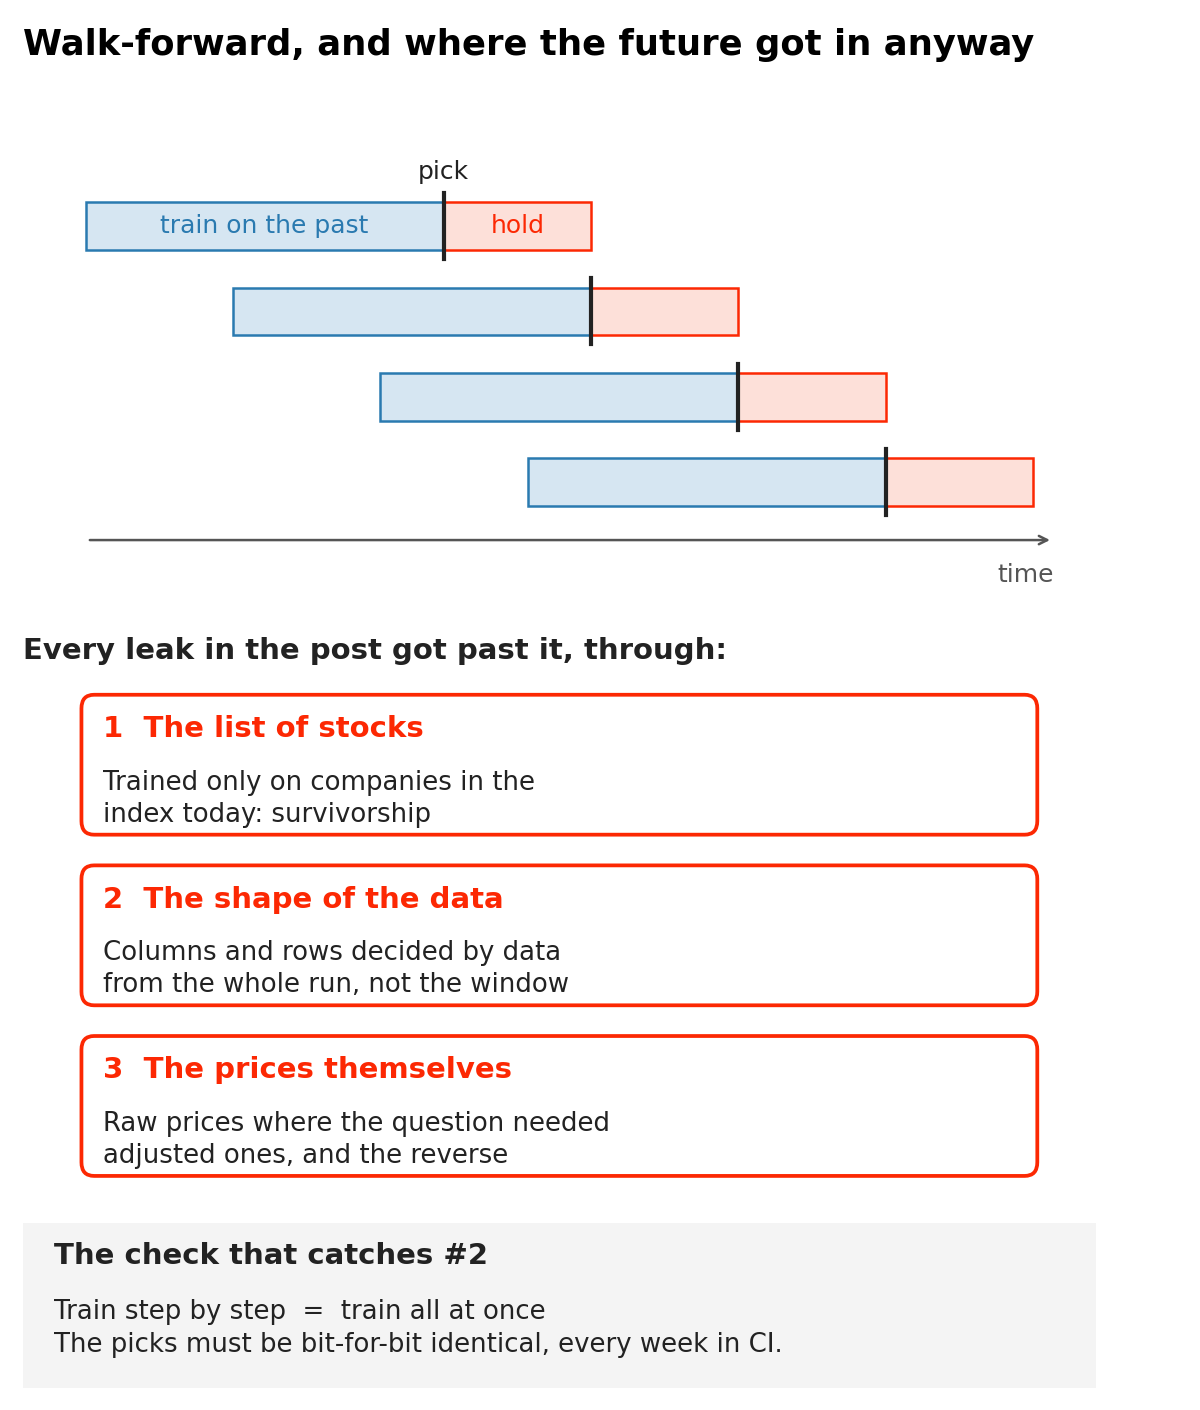
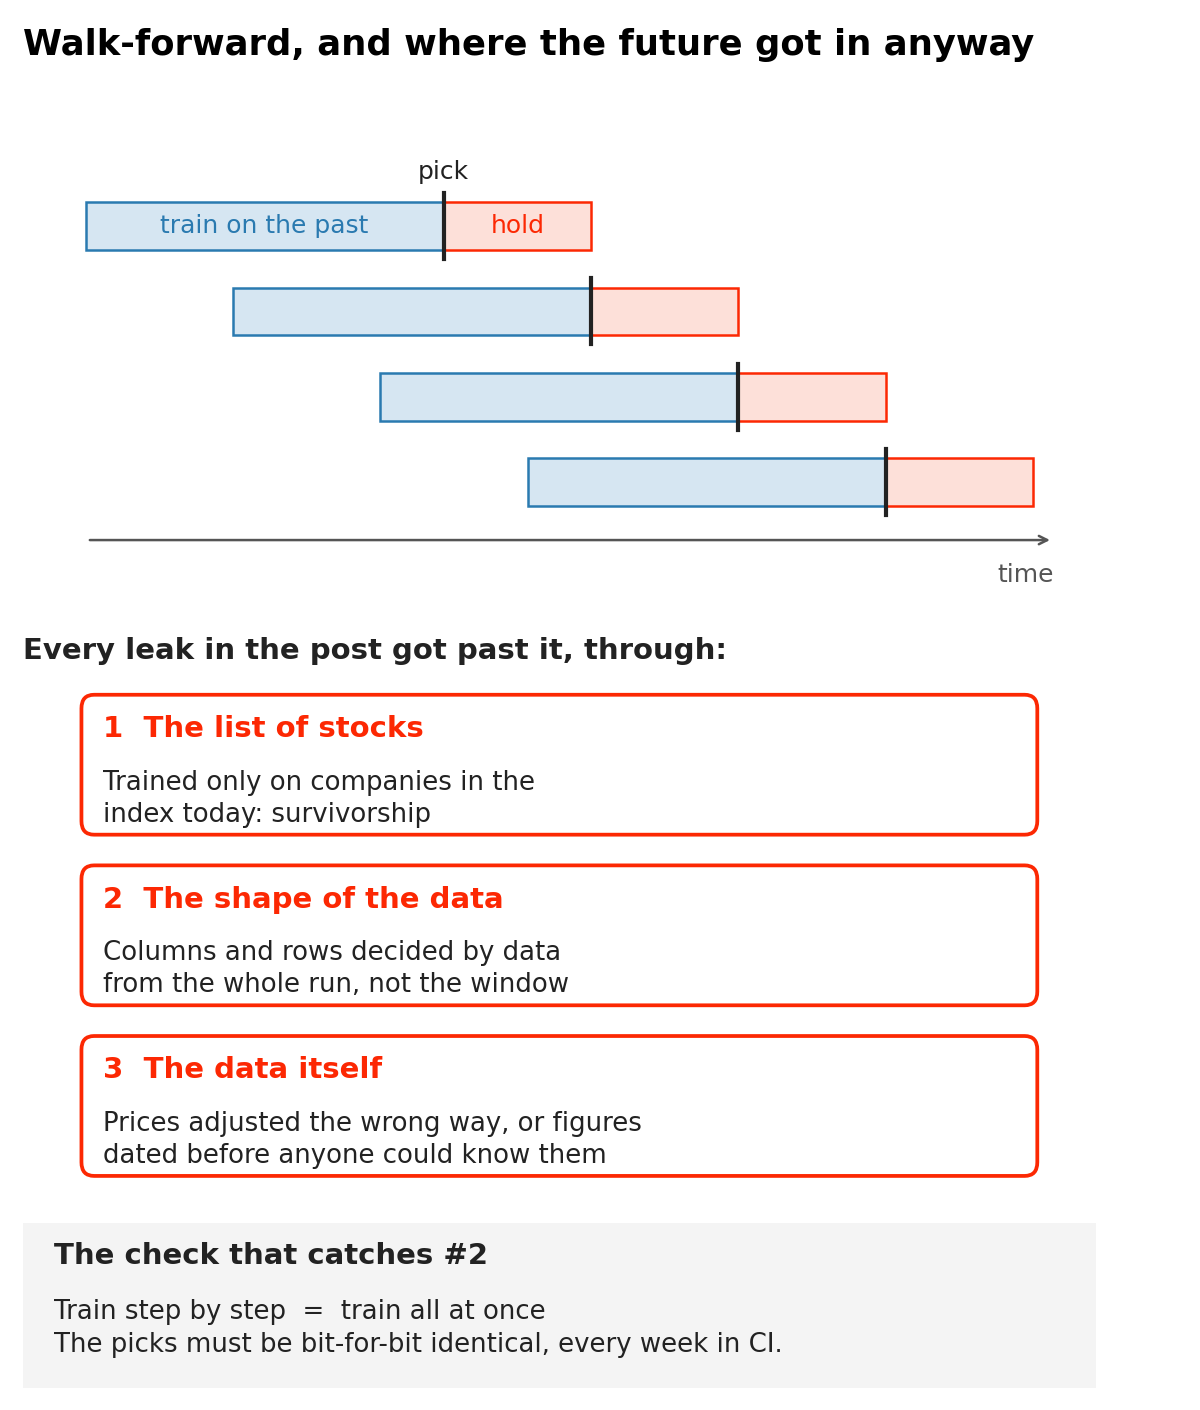
Fact-check fixes: Chesapeake's index history, leak taxonomy, captions
Chesapeake left the S&P 500 in 2018 and rejoined as EXE in 2025. The diagram's
third leak type now covers figures dated before they were knowable. Alphabet's
split was six weeks after Amazon's. Captions no longer overclaim.

Claude-Session: https://claude.ai/code/session_01QXEQAc3mBLMkK3QhyLDFNT

Changed region(s): [[0.0925, 0.7489, 0.5242, 0.8426]]

diff --git a/content/posts/trading-model-leakage.md b/content/posts/trading-model-leakage.md
@@ -46,10 +46,11 @@ before that date, picks its stocks, holds them until the next rebalancing date, 
 then the whole thing steps forward and repeats. That way, no single model is ever
 scored on data it was trained on. Walk-forward is necessary, but as you'll see, every
 leak in this post got through it, because each one smuggled the future in somewhere
-other than the training dates: the list of stocks, the shape of the data, or the
-prices themselves.
+other than the training dates: the list of stocks, the shape of the data, or the data
+itself, through prices adjusted the wrong way or figures dated before anyone could have
+known them.
 
-{{< figure src="/posts/trading-model-leakage/walk-forward-leaks.png" alt="Diagram of walk-forward training: four steps, each training on the past, picking on the rebalancing date and holding until the next one, moving forward in time. Below it, the three ways the leaks in this post got past walk-forward: the list of stocks (survivorship), the shape of the data (columns and rows decided by the whole run), and the prices themselves (raw where adjusted was needed, and the reverse). At the bottom, the check that catches the second: training step by step must give bit-for-bit the same picks as training all at once." >}}
+{{< figure src="/posts/trading-model-leakage/walk-forward-leaks.png" alt="Diagram of walk-forward training: four steps, each training on the past, picking on the rebalancing date and holding until the next one, moving forward in time. Below it, the three ways the leaks in this post got past walk-forward: the list of stocks (survivorship), the shape of the data (columns and rows decided by the whole run), and the data itself (prices adjusted the wrong way, or figures dated before anyone could know them). At the bottom, the check that catches the second: training step by step must give bit-for-bit the same picks as training all at once." >}}
 
 So, this post is about the leaks I shipped, the ones I caught in research before they
 shipped, and the times an AI was sure it had found a leak and was wrong. Every one of
@@ -67,10 +68,11 @@ holding. When I went to look it up, my notes from
 the investigation read: "Odd, both Yahoo and Google only have data back to 2021...
 Perhaps the symbol was renamed?"
 
-It had been. It was Chesapeake Energy, which did a 1-for-200 reverse split in April
-2020, went bankrupt later that year, eventually merged and took on a new name, and
-wasn't added to the S&P 500 until 2025. My backtest was holding it in 2020 because the
-training code only knew about the index as it stood today. (Keep that reverse split in
+It had been. It was Chesapeake Energy, which had been dropped from the S&P 500 in
+2018, did a 1-for-200 reverse split in April 2020, went bankrupt later that year, and
+eventually merged, took on a new name and rejoined the index in 2025. My backtest was
+holding it in 2020, two years after it had left the index, because the training code
+only knew about the index as it stood today. (Keep that reverse split in
 mind, as it shows up again later in this post.)
 
 Fixing survivorship bias turned out to be mostly a data problem. First, I needed the
@@ -111,7 +113,7 @@ to file its complete list of holdings with the SEC. Against those filings, my li
 that hadn't gone public yet. The AI models I'd asked to double-check the list in 2025
 hadn't caught any of this.
 
-{{< figure src="/posts/trading-model-leakage/sp500-membership-vs-spy.png" alt="Line chart from 1995 to 2026 of how many S&P 500 companies my list held on each date SPY filed its holdings with the SEC. SPY's count sits near 500 throughout. My list starts at 379 in 1995, 121 short, is 74 short in 2001 and 5 short in 2009, and matches from 2010." caption="How many S&P 500 members my list knew about, against the holdings SPY filed with the SEC. The gap is the companies my 2025 fix still left out." >}}
+{{< figure src="/posts/trading-model-leakage/sp500-membership-vs-spy.png" alt="Line chart from 1995 to 2026 of how many S&P 500 companies my list held on each date SPY filed its holdings with the SEC. SPY's count sits near 500 throughout. My list starts at 379 in 1995, 121 short, is 74 short in 2001 and 5 short in 2009, and matches from 2010." caption="How many S&P 500 members my list knew about, against the holdings SPY filed with the SEC. The gap is the least my 2025 fix still left out, since the list also held a few companies that hadn't gone public yet." >}}
 
 The second was prices. Many of the companies that failed
 outright, like Lehman Brothers, Bear Stearns, Enron and WorldCom, have no price data in
@@ -235,7 +237,7 @@ A quick primer, since everything below depends on it. A raw price is what a stoc
 actually traded at on a given day. When a company does a 20-for-1 split, every share
 becomes 20 shares worth a twentieth as much, so the raw price drops 95% overnight even
 though no one lost a cent. A reverse split is the opposite: 200 shares become one, and
-the raw price jumps 200 times. An adjusted price rewrites the history before each event
+the raw price jumps 200-fold. An adjusted price rewrites the history before each event
 so that the series is continuous, e.g. by dividing every price before a 20-for-1 split
 by 20, and it does something similar for dividends. Neither series is wrong. They
 answer different questions, and the bugs below all came from asking one series a
@@ -250,8 +252,8 @@ a data convention that never occurs in practice. Here are three more.
 In a long/short research line, which buys some stocks and bets against others by
 shorting them, so that it profits when they fall, one data source's features were
 computed from raw prices rather than adjusted ones. So, when Amazon split 20:1 in
-June 2022, the raw series showed a one-day move of about −95%. Alphabet's 20:1 split a
-month later looked the same, and Tesla's 3:1 split read as −67%.
+June 2022, the raw series showed a one-day move of about −95%. Alphabet's 20:1 split about
+six weeks later looked the same, and Tesla's 3:1 split read as −67%.
 
 A −95% day dominates any ranking of stocks against each other, and the model's
 momentum-style features, which look at how much a stock has risen or fallen recently,
@@ -273,7 +275,7 @@ prices give identical values. For a window that does straddle a split, the adjus
 ratio is the true economic return and the raw one is an artifact. In other words, the
 thing that looked like lookahead wasn't, and the thing chosen to avoid it was the bug.
 
-{{< figure src="/posts/trading-model-leakage/amzn-split-raw-vs-adjusted.png" alt="Two-panel chart of Amazon from March to September 2022. Top: the raw price falls from about $2,450 to about $125 on the June 6 split, while the adjusted price runs straight through. Bottom: the one-month return computed from raw prices drops to about minus 95 percent for 21 trading days after the split; computed from adjusted prices it stays within its normal range, and the two lines are identical outside those 21 days." caption="Amazon's 2022 split as raw and adjusted prices. The raw one-month return reads as a 95% crash for a month, which is what the model learned to short." >}}
+{{< figure src="/posts/trading-model-leakage/amzn-split-raw-vs-adjusted.png" alt="Two-panel chart of Amazon from March to September 2022. Top: the raw price falls from about $2,450 to about $125 on the June 6 split, while the adjusted price runs straight through. Bottom: the one-month return computed from raw prices drops to about minus 95 percent for 21 trading days after the split; computed from adjusted prices it stays within its normal range, and the two lines are identical outside those 21 days." caption="Amazon's 2022 split as raw and adjusted prices. The raw one-month return reads as a 95% crash for a month: the shape the model learned to treat as a good short." >}}
 
 ### Ratios Want Adjusted, Levels Want Raw
 
